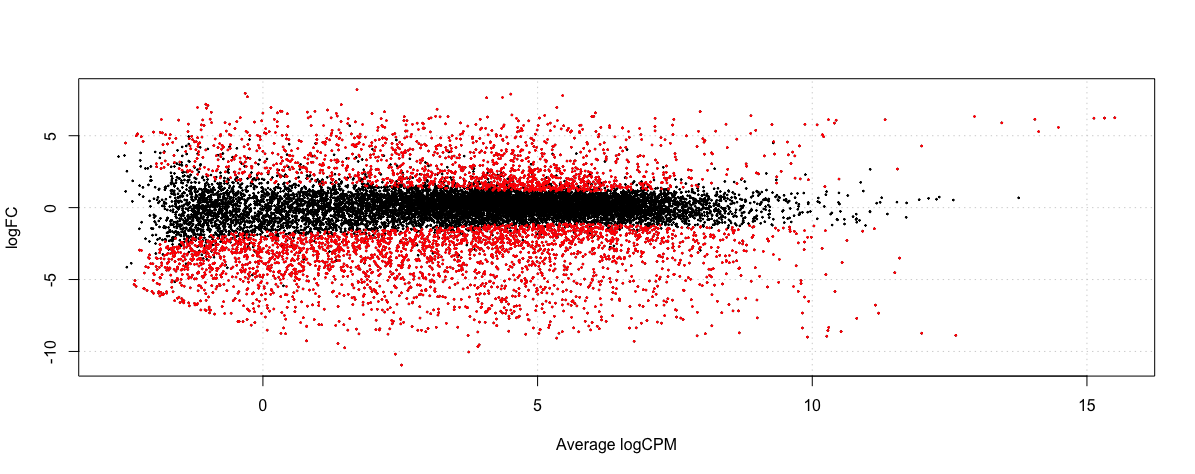
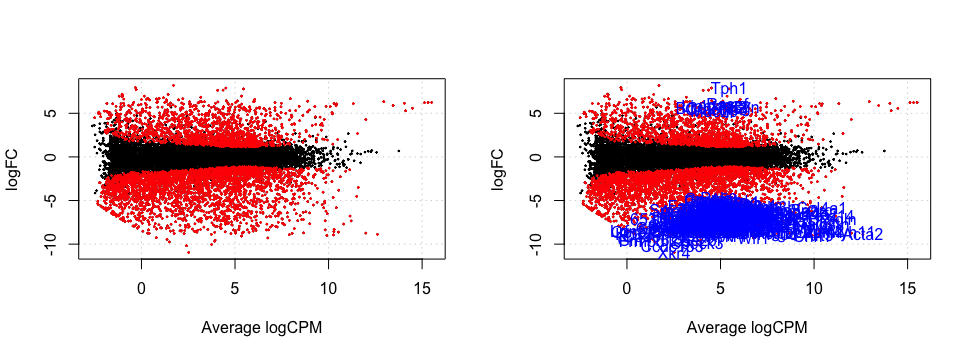
update files

diff --git a/README.md b/README.md
@@ -30,18 +30,57 @@ Please note that these learning materials were derived from a COMBINE RNA-sequen
 
 ## General info
 
-### 1_preprocessing_and_quality_control.Rmd
+### 1_alignment_and_counting.Rmd
 
-- pending
+1. Loads `baseq` and `Rsubread` packages.
+2. Creates R data frame from `FASTQ` file using`baseq` for exploratory data analysis.
+3. Loads all `FASTQ` files.
+4. Builds Mouse Chromosome 1 Index using `Rsubread`.
+5. Aligns reads to index using `Rsubread`
+6. Uses `propmapped` function of `Rsubread` to generate summary/proportion of reads mapped to reference genome.
+7. Performs some Quality Control by checking Phred scores  using `qualityScores` function. Creates boxplot of scores:![phred](plots/qc_phred_boxplot.png)
+8. Counts reads mapped to genes using `featureCounts` function.
+9. Creates R data frames of gene counts for exploratory data analysis.
+
+### 2_preprocessing_and_quality_control.Rmd
+
+1. Loads `edgeR`, `limma`, `Glimma`, `gplots`, `org.Mm.eg.db` and `RColorBrewer`.
+2. Imports `sampleinfo` and reads in `countdata` (prepared previously).
+3. Formats `countdata` to ensure columns match SampleName column in `sampleinfo`.
+4. Filter out lowly expressed genes using counts per million (`cpm` function). 
+5. Converts counts to `DGEList` object (`edgeR` object used to store count data).
+6. Checks number of reads in each sample and plots data as boxplot:
+   ![phred](plots/boxplot_logCPMs.png)
+7. Plots MDSplot to visualise principle component analysis (PCA; determines greatest sources of variation in data by clustering similar data):
+   ![phred](plots/mdsplot.png)
+8. Performs Hierarchical Clustering using `heatmap.2` function from `gplots` to visualise top 100 most differentially expressed (DE) genes:
+   ![phred](plots/heatmap.png)
+9. Normalises composition biases between libraries using trimmed mean of M-values normalisation method (TMM):
+   ![phred](plots/tmm.png)
+10. Data objects saved for further analysis.
 
 
-### 2_differential_expression_using_edgeR.Rmd
+### 3_differential_expression_using_edgeR.Rmd
 
-- pending 
+1. Creates design matrix (displays how conditions or groups are modelled in the statistical analysis).
 
-### 3_annotation_and_visualisation.Rmd
+2. Replots MDSplot with `CellType` and `Status` info and plots Estimated Dispersion:
+   ![phred](plots/mds_labelled.png)
 
-- pending
+3. Tests for DE using genewise Generalised Linear Model (GLM).
+4. Conducts likelihood ratio tests for luminal vs basal cell types.
+5. Creates Contrast Matrix in order to find DE genes between pregnant and virgin status mice.
+6. Saves data object for visualisation.
+
+### 4_annotation_and_visualisation.Rmd
+
+1. Creates Results data frame containing all `ENTREZID`, which allows annotation using `org.Mm.eg.db` library.
+
+2. Creates PlotSmear that visualises DE genes and the average logCPM:
+   ![phred](plots/plotsmear.png)
+
+3. Creates Volcano plot that displays measure of signficance (`y-axis`) and fold-change (`x-axis`):
+   ![phred](plots/volcano.png)
 
 
 ## Technologies
